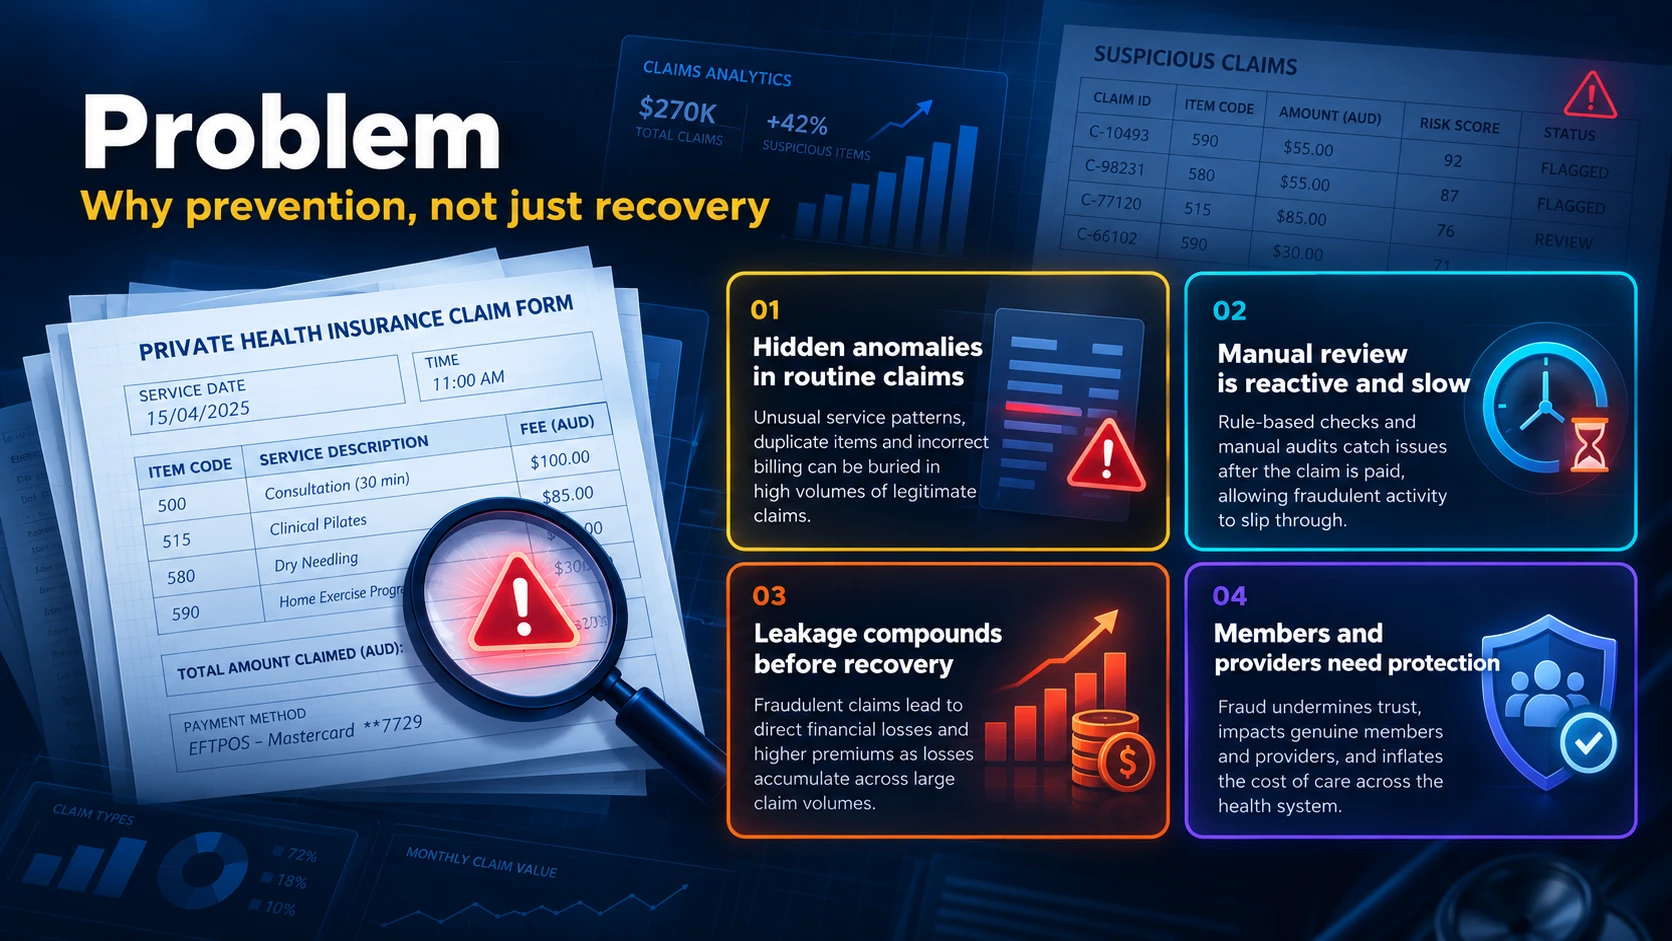
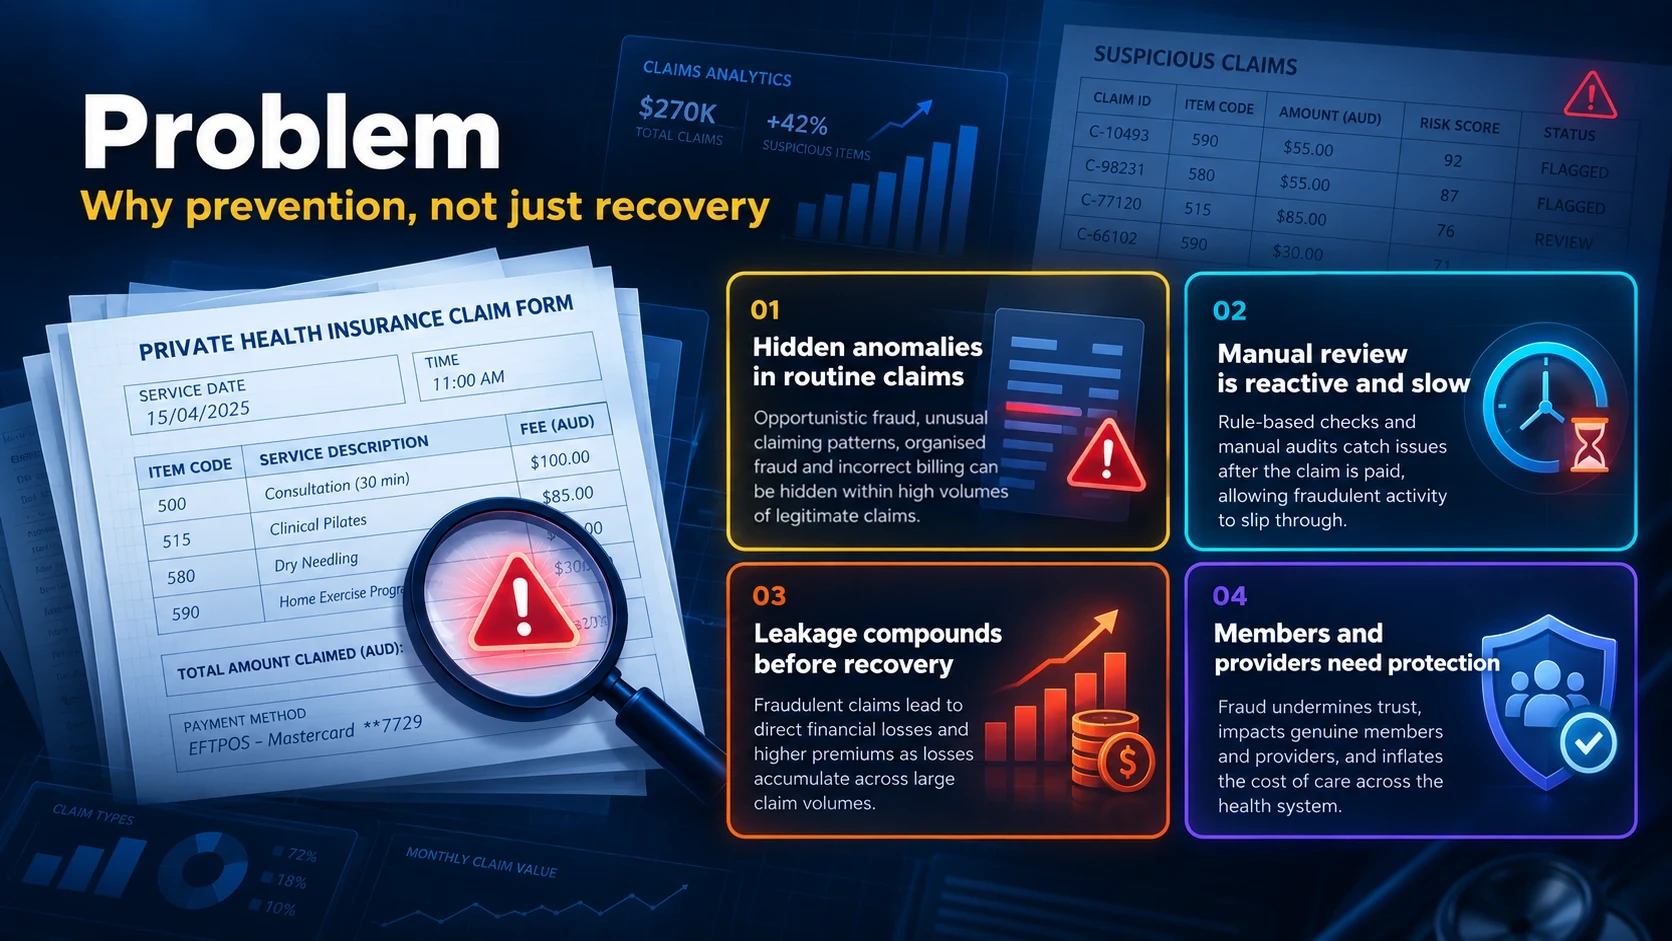
Slide 2: new wording for card 01, Hidden anomalies in routine claims
Takes the updated card 01 text from the latest ChatGPT problem slide
(now naming opportunistic and organised fraud) and patches it into the
existing slide image, so the site's own button in the supplied
screenshot isn't baked in. Updates the presenter guide to match.

Claude-Session: https://claude.ai/code/session_016255NnuxR9SLLLAfS2zFQ6

Changed region(s): [[0.4354, 0.4315, 0.5909, 0.5547]]

diff --git a/demo-guides/presenter-guide.md b/demo-guides/presenter-guide.md
@@ -22,7 +22,7 @@ Time: 30 seconds – 1 minute (quick roadmap, don’t over-explain)
 ### Slide 2: Problem (why prevention, not just recovery)
 
 - Talk about:
-  - Hidden anomalies in routine claims — unusual service patterns, duplicate items and incorrect billing buried in high volumes of legitimate claims
+  - Hidden anomalies in routine claims — opportunistic fraud, unusual claiming patterns, organised fraud and incorrect billing hidden within high volumes of legitimate claims
   - Manual review is reactive and slow — rule-based checks and audits catch issues after the claim is paid
   - Leakage compounds before recovery — losses accumulate across large claim volumes and flow into premiums
   - Members and providers need protection — fraud undermines trust and inflates the cost of care
